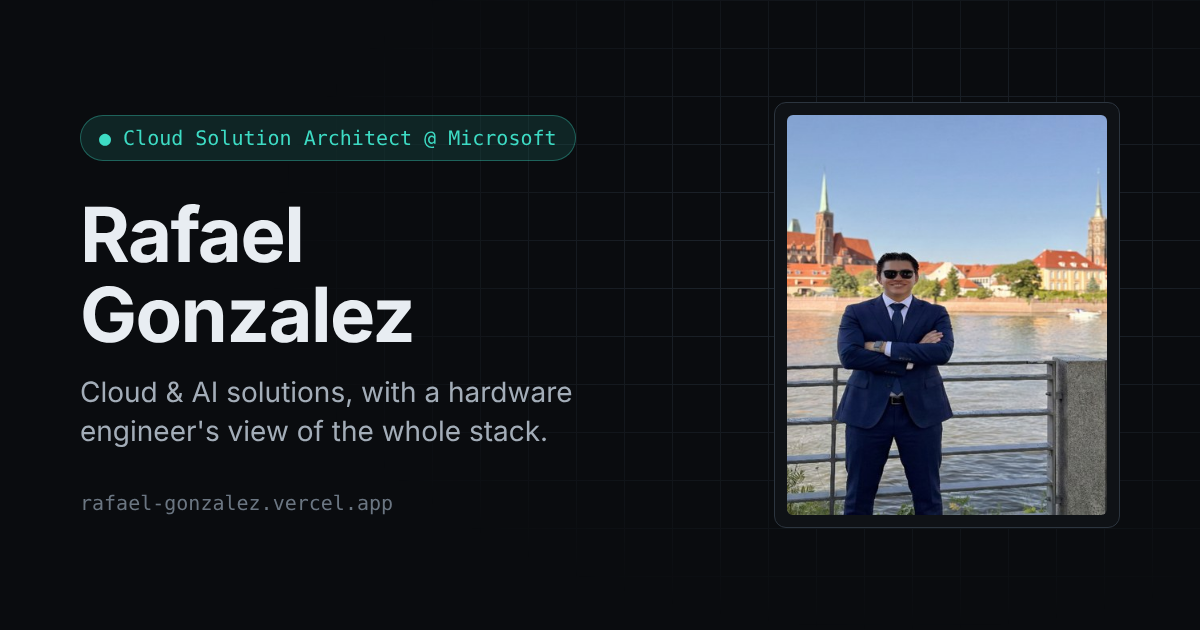
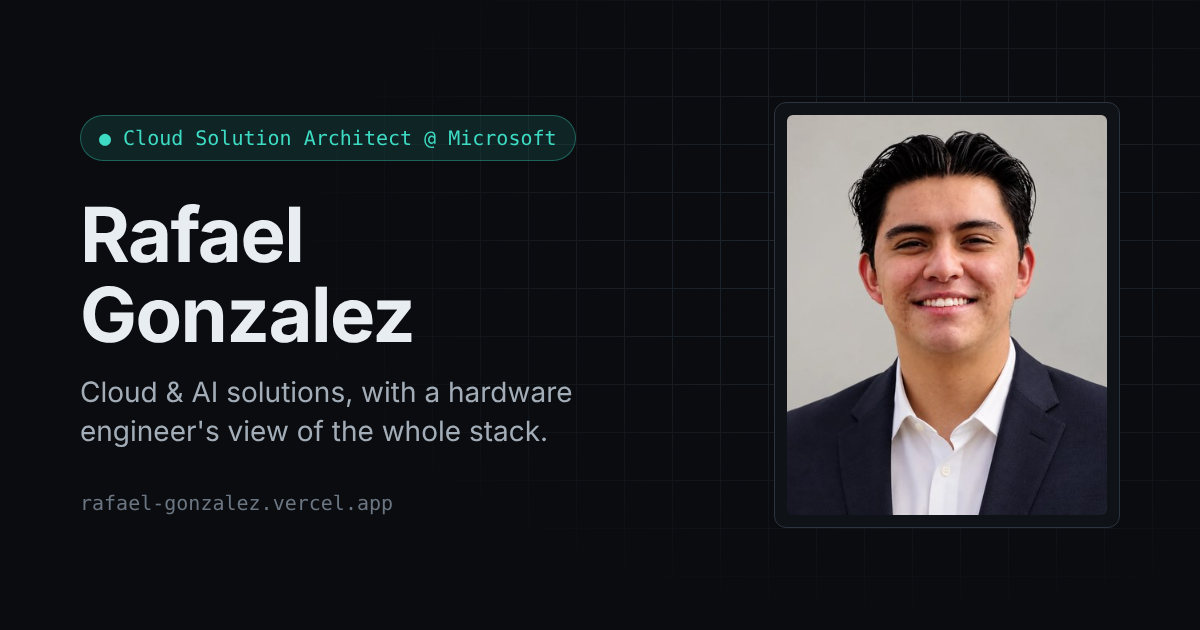
Use new professional headshot
- Replace hero photo with new square headshot (78 KB, was 5.7 MB)
- Regenerate social preview image with the new photo
- Remove unused old photos

Claude-Session: https://claude.ai/code/session_01J272svVk4HMQVneGzrjm6E

Changed region(s): [[0.6475, 0.181, 0.925, 0.8444]]

diff --git a/components/Hero.tsx b/components/Hero.tsx
@@ -46,10 +46,10 @@ export default function Hero() {
                             <span className="corner bl" />
                             <span className="corner br" />
                             <Image
-                                src="/rafael-traje.png"
+                                src="/rafael-headshot.jpg"
                                 alt="Portrait of Rafael Gonzalez"
-                                width={640}
-                                height={800}
+                                width={900}
+                                height={900}
                                 sizes="(max-width: 860px) 200px, 320px"
                                 priority
                             />

diff --git a/app/globals.css b/app/globals.css
@@ -400,11 +400,9 @@ p {
 .photo-frame img {
   width: 100%;
   height: auto;
-  aspect-ratio: 4 / 5;
+  aspect-ratio: 1;
   object-fit: cover;
-  object-position: 50% 40%;
   border-radius: var(--radius-sm);
-  filter: saturate(0.85);
 }
 
 .photo-frame figcaption {
